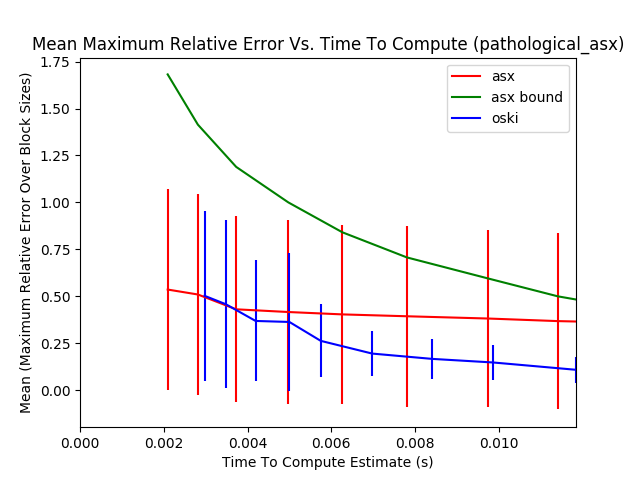
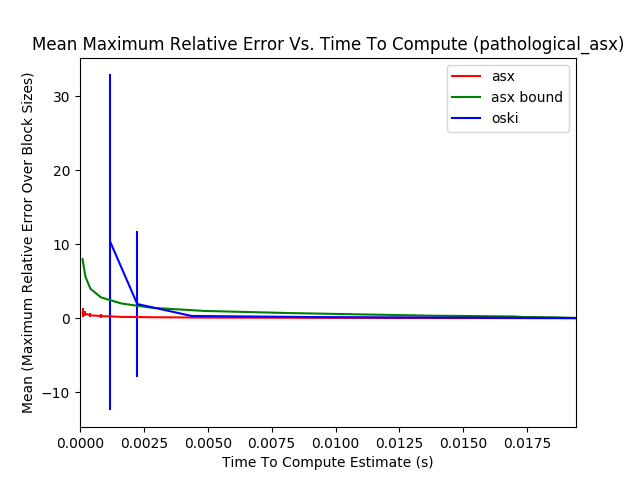
well, asx looks good.

diff --git a/code/plot.py b/code/plot.py
@@ -2,7 +2,7 @@ import matplotlib.pyplot as plt
 import numpy as np
 from util import *
 
-B = 4
+B = 12
 trials = 100
 
 """
@@ -17,6 +17,7 @@ oski_top_error = 0.05
 oski_delta_init = 0.005
 oski_override_points = []
 override_ylim = 0.0
+"""
 
 matrices = ["pathological_asx"]
 show_bound = True
@@ -28,9 +29,10 @@ asx_epsilon_init = 0.5
 oski_top_error = 0.10
 oski_delta_init = 0.1
 oski_override_points = []
+oski_override_points = [{"delta": delta} for delta in 2**0.9 * 2**np.arange(-1.0, -6.0, -1.0)]
 override_ylim = 0.0
-"""
 
+"""
 matrices = ["pathological_oski"]
 show_bound = True
 rate = 2.0**0.5
@@ -42,61 +44,12 @@ oski_top_error = 1.0
 oski_delta_init = 0.9
 oski_override_points = [{"delta": delta} for delta in 2**0.9 * 2**np.arange(-1.0, -6.0, -1.0)]
 override_ylim = 3.0
+"""
 
 references = get_references(matrices, B = B)
 for (reference, matrix) in zip(references, matrices):
-  """
-  oski_points = []
-  oski_delta = oski_delta_init
-
-  if len(oski_override_points) == 0:
-    oski_error = 10000.0
-    results = fill_estimates("oski", [matrix], B = B, results = True, trials = trials, delta = oski_delta)
-    get_errors(results, [reference])
-    oski_error = np.mean(results[0]["errors"])
-    while oski_error > oski_top_error:
-      print("decreasing oski error...", oski_error)
-      oski_delta *= rate
-      if oski_delta >= 1.0:
-        oski_delta /= rate
-        break
-      results = fill_estimates("oski", [matrix], B = B, results = True, trials = trials, delta = oski_delta)
-      get_errors(results, [reference])
-      oski_error = np.mean(results[0]["errors"])
-
-    oski_time = benchmark("oski", [matrix], B = B, delta = oski_delta)[0]
-
-    oski_error = 0.0
-    while oski_error < oski_bottom_error:
-      oski_delta /= rate
-      oski_points.append({"delta":oski_delta})
-      results = fill_estimates("oski", [matrix], B = B, results = True, trials = trials, delta = oski_delta)
-      get_errors(results, [reference])
-      oski_error = np.mean(results[0]["errors"])
-      print("increasing oski error...", oski_error)
-  else:
-    oski_time = benchmark("oski", [matrix], B = B, delta = oski_override_points[0]["delta"])[0]
-    oski_points = oski_override_points
-
-  asx_points = []
-  asx_epsilon = asx_epsilon_init
-  while benchmark("asx", [matrix], B = B, epsilon = asx_epsilon, delta = asx_delta)[0] < oski_time:
-    asx_epsilon /= rate
-    print("increasing asx runtime", asx_epsilon)
-  asx_error = 0.0
-  while asx_error < bottom_error:
-    asx_points.append({"epsilon":asx_epsilon, "delta":asx_delta})
-    results = fill_estimates("asx", [matrix], B = B, results = True, trials = trials, epsilon = asx_epsilon, delta = asx_delta)
-    get_errors(results, [reference])
-    asx_error = np.mean(results[0]["errors"])
-    asx_epsilon *= rate
-    print("increasing asx error", asx_error)
-  """
   asx_points = [{'epsilon': 0.044194173824159196, 'delta': 0.01}, {'epsilon': 0.06249999999999997, 'delta': 0.01}, {'epsilon': 0.0883883476483184, 'delta': 0.01}, {'epsilon': 0.12499999999999996, 'delta': 0.01}, {'epsilon': 0.17677669529663684, 'delta': 0.01}, {'epsilon': 0.24999999999999994, 'delta': 0.01}, {'epsilon': 0.35355339059327373, 'delta': 0.01}, {'epsilon': 0.5, 'delta': 0.01}, {'epsilon': 0.7071067811865476, 'delta': 0.01}, {'epsilon': 1.0000000000000002, 'delta': 0.01}, {'epsilon': 1.4142135623730954, 'delta': 0.01}, {'epsilon': 2.0000000000000004, 'delta': 0.01}, {'epsilon': 2.8284271247461907, 'delta': 0.01}, {'epsilon': 4.000000000000001, 'delta': 0.01}, {'epsilon': 5.6568542494923815, 'delta': 0.01}, {'epsilon': 8.000000000000002, 'delta': 0.01}]
   oski_points = [{'delta': 0.93303299153680741}, {'delta': 0.46651649576840371}, {'delta': 0.23325824788420185}, {'delta': 0.11662912394210093}, {'delta': 0.058314561971050463}]
-
-  print asx_points
-  print oski_points
 
   methods = [{"name":"asx",
               "points":asx_points,
@@ -119,7 +72,8 @@ for (reference, matrix) in zip(references, matrices):
       results = fill_estimates(method["name"], [matrix], B = B, results = True, trials = trials, **point)
       get_errors(results, [reference])
       times.append(results[0]["time_mean"])
-      #print(sorted(results[0]["errors"]))
+      print(len(results[0]["errors"]))
+      print(sorted(results[0]["errors"]))
       errors.append(np.mean(results[0]["errors"]))
       hi_bars.append(np.std(results[0]["errors"]))
       lo_bars.append(np.std(results[0]["errors"]))

diff --git a/code/util.py b/code/util.py
@@ -49,10 +49,7 @@ def get_errors(outputs, references):
   get_flat_results(outputs)
   for (i, reference) in enumerate(references):
     fill_errors = np.abs(np.array(outputs[i]["flat_results"]) - reference[np.newaxis,:])/reference[np.newaxis,:]
-    print(reference)
-    print(outputs[i]["flat_results"][0])
     outputs[i]["errors"] = np.max(fill_errors, axis = 1)
-
 
 def benchmark(name, matrices, B = 12, epsilon = 0.1, delta = 0.01):
   timeout = 0.1

diff --git a/code/asx.c b/code/asx.c
@@ -124,7 +124,7 @@ int estimate_fill (size_t m,
       int r_hi = B + b_r - 1 - (i % b_r);
       int r_lo = r_hi - b_r;
       for (int b_c = 1; b_c <= B; b_c++) {
-        int c_hi = B + b_c - 1 - (i % b_c);
+        int c_hi = B + b_c - 1 - (j % b_c);
         int c_lo = c_hi - b_c;
         int y_0 = Z[r_hi][c_hi] - Z[r_lo][c_hi] - Z[r_hi][c_lo] + Z[r_lo][c_lo];
         fill[fill_index] += 1.0/y_0;
